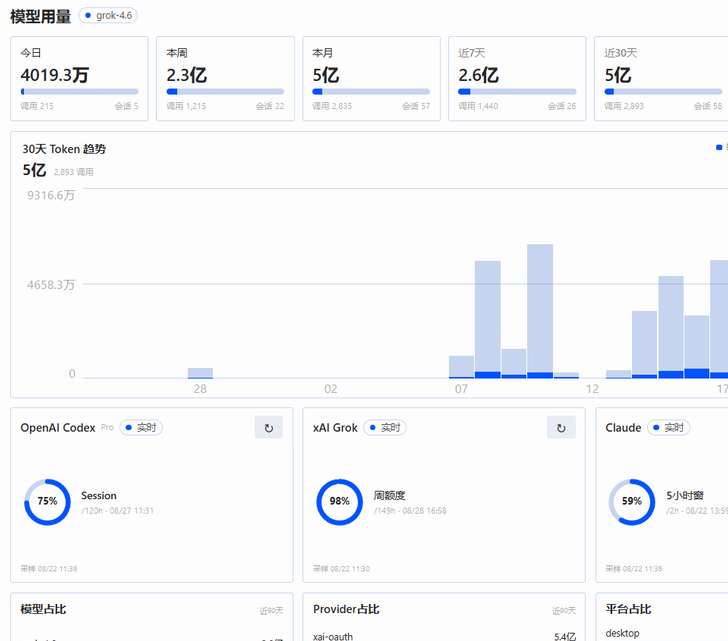
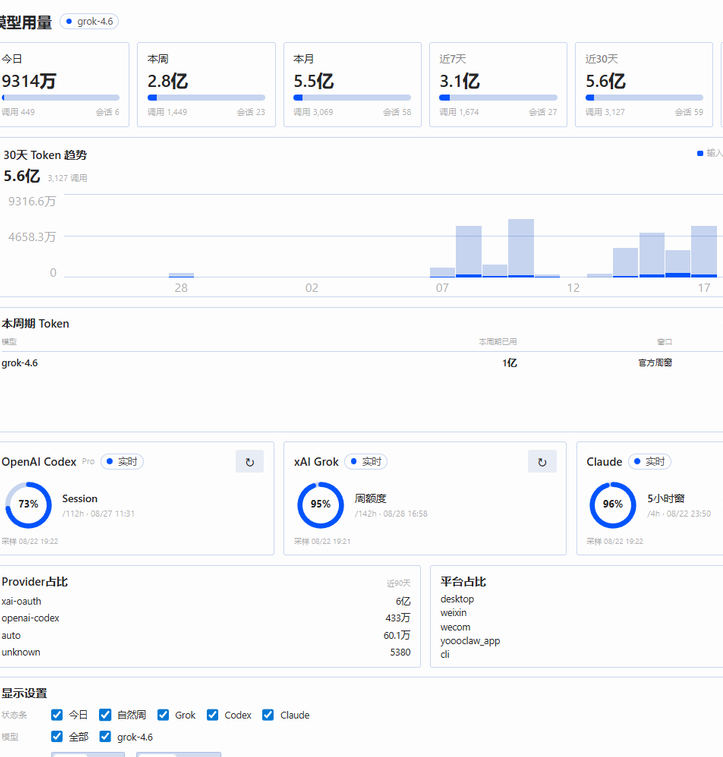
Document v1.11.0: official reset-cycle tokens and display settings.
Refresh the README, landing page, and screenshots so they match the status bar and settings that actually shipped.

diff --git a/docs/index.html b/docs/index.html
@@ -11,14 +11,14 @@
     header, main, footer { max-width: 980px; margin: 0 auto; padding: 0 24px; }
     header { padding-top: 56px; padding-bottom: 28px; }
     h1 { font-size: 36px; font-weight: 600; letter-spacing: .02em; }
-    .lead { color: var(--mute); margin-top: 10px; max-width: 52ch; }
+    .lead { color: var(--mute); margin-top: 10px; max-width: 58ch; }
     .row { display: flex; gap: 10px; flex-wrap: wrap; margin-top: 22px; }
     a.btn { display: inline-block; padding: 9px 14px; border: 1px solid var(--line); color: var(--ink); text-decoration: none; font-size: 14px; }
     a.btn.pri { background: var(--acc); color: #1b160b; border-color: var(--acc); }
     section { padding: 28px 0; border-top: 1px solid var(--line); }
     h2 { font-size: 18px; font-weight: 500; margin-bottom: 12px; }
     img { width: 100%; border: 1px solid var(--line); background: #111; }
-    .bar { max-width: 640px; }
+    .bar { max-width: 720px; }
     table { width: 100%; border-collapse: collapse; font-size: 14px; }
     td, th { text-align: left; padding: 8px 0; border-bottom: 1px solid var(--line); vertical-align: top; }
     th { color: var(--mute); font-weight: 400; width: 28%; }
@@ -29,7 +29,7 @@
 <body>
   <header>
     <h1>Hermes Usage Center</h1>
-    <p class="lead">Hermes Desktop 的模型用量插件。侧栏看日 / 周 / 月和官方额度，右下角常驻今日 Token 与 Grok / Codex / Claude 剩余。</p>
+    <p class="lead">Hermes Desktop 的模型用量插件。侧栏看自然周期和官方额度；右下角常驻今日 Token，以及 Grok / Codex / Claude 的剩余% 与本周期已用。</p>
     <div class="row">
       <a class="btn pri" href="https://github.com/chenleshu/hermes-usage-center">GitHub</a>
       <a class="btn" href="https://github.com/chenleshu/hermes-usage-center#安装">安装说明</a>
@@ -38,22 +38,28 @@
   <main>
     <section>
       <h2>整页看板</h2>
-      <img src="assets/dashboard.png" alt="Hermes Usage Center 看板：今日本周本月、30日趋势、三家官方额度" />
+      <img src="assets/dashboard.png" alt="Hermes Usage Center 看板：自然周期、本周期表、三家官方额度、显示设置" />
     </section>
     <section>
       <h2>右下角状态条</h2>
-      <img class="bar" src="assets/statusbar.png" alt="状态条：今日 Token、Grok、Codex、Claude" />
-      <p class="lead" style="margin-top:12px">悬停某一家，只弹出这一家的额度环和日 / 周 / 月，不掺另外两家，也不显示上下文或会话。</p>
+      <img class="bar" src="assets/statusbar.png" alt="状态条：今日、Grok/Codex/Claude 剩余% 与本周期已用" />
+      <p class="lead" style="margin-top:12px">本周期 Token 贴在剩余%旁边，口径是官方重置窗内已用，不是自然周。悬停某一家只看这一家。</p>
     </section>
     <section>
       <h2>官方额度</h2>
       <img src="assets/quotas.png" alt="Codex、Grok、Claude 额度环" />
     </section>
     <section>
+      <h2>显示设置</h2>
+      <img src="assets/settings.png" alt="显示设置：状态条、模型、单位自动或手动" />
+      <p class="lead" style="margin-top:12px">单位可选自动 / 手动，单位制万/亿或 K/M/B。改完立刻作用于本页和右下角。</p>
+    </section>
+    <section>
       <h2>口径</h2>
       <table>
         <tr><th>今日 / 本周 / 本月</th><td>上海时区自然周期，按会话开始时间归属</td></tr>
         <tr><th>近 7 / 30 / 90 天</th><td>滚动窗口，标签不会写成「本月」</td></tr>
+        <tr><th>本周期 Token</th><td>官方重置窗内已用；无官方窗的模型不进这张表</td></tr>
         <tr><th>官方额度</th><td>账户接口或本机额度快照；不用本地 Token 反推会员余量</td></tr>
       </table>
     </section>
@@ -61,7 +67,7 @@
       <h2>安装</h2>
       <pre>hermes plugins install chenleshu/hermes-usage-center
 hermes plugins enable usage-center</pre>
-      <p class="lead" style="margin-top:12px">Desktop Settings → Plugins 打开本插件。需要 Hermes ≥ 0.20.4。</p>
+      <p class="lead" style="margin-top:12px">Desktop Settings → Plugins 打开本插件。需要 Hermes ≥ 0.20.4。当前版本 v1.11.0。</p>
     </section>
   </main>
   <footer>MIT © 2026 Chen Leshu · 不是 Nous Research 官方插件</footer>
